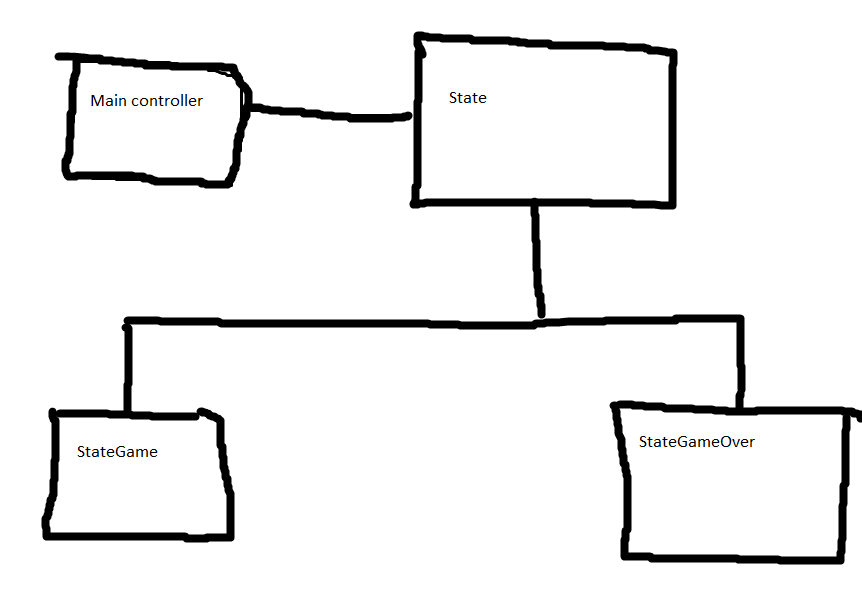
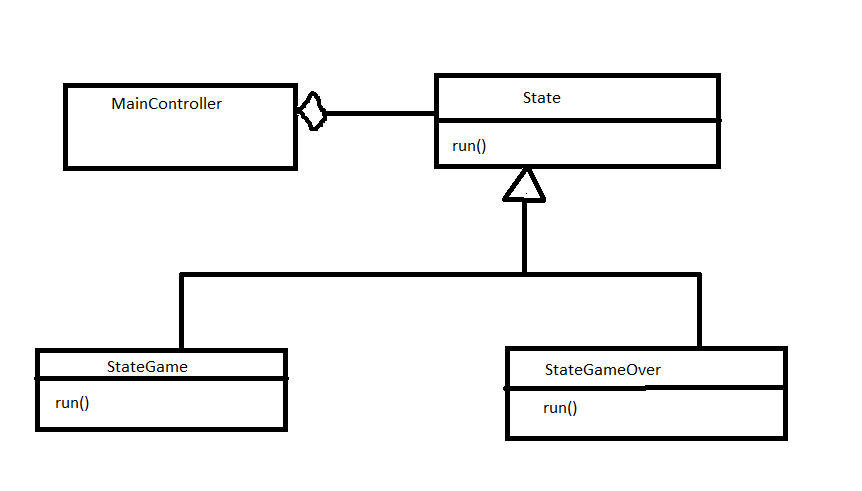
Update Report

Changed region(s): [[0.0302, 0.0305, 1.0, 0.947], [0.6334, 0.8248, 0.6636, 0.8554]]

diff --git a/docs/README.md b/docs/README.md
@@ -13,47 +13,55 @@ O nosso jogo é inspirado no jogo `Gelo Fino` que existia no jogo *Club Penguin*
 # Indíce
 
 1. [Funcionalidades](#funcionalidades)
+1. [Funcionalidades](#funcionalidades)
 2. [Arquitetura do Código](#padrão-arquitetural-do-código)
 3. [Design Patterns](#design-patterns)
-    - [Strategy](#strategy)
+    - [State](#state)
+    - [Command](#state)
 4. [Code Smells e Refactoring](#code-smells-e-refactoring)
 5. [Unit Tests](#unit-tests)
+6. [Outros comentários](#outros-comentarios)
 
 # Funcionalidades
 
 - [ ] Menu Principal
 
-- [x] Os quadrados que o jogador percorre ficam inacessíveis
-  - [x] Os quadrados inacessíveis estão marcados como sendo água
-  - [x] Quando o jogador fica rodeado apenas por água, o mesmo perde
+- [x] Movimento
+  - [x] Sempre que o jogador se movimenta, a sua posição anterior fica inacessível
+  - [x] As posições inacessíveis são transformadas em água
+  - [x] Quando o jogador não se pode movimentor, isto é fica rodeado por peças de água e por paredes, perde o jogo
   - [x] Quanto maior for o número de quadrados que o jogador percorre, maior será a sua pontuação
 
-
-- [x] Existem sacos com moedas espalhados pelo nivel.
-  - [x] Capturar um saco com moedas faz aumentar a pontuação do jogador
+- [x] Existem moedas espalhadas em determinados niveís.
+  - [x] Capturar uma moeda aumenta a pontuação do jogador em dez pontos
   - [ ] Podem existir passagem secretas que levem para zonas com muitos sacos de moedas.
 
-- [x] A partir de um certo nivel começa a aparecer gelo mais resistente, isto é uma zona em que o jogador pode passar por cima duas vezes.
+- [x] A partir de um certo nivel existem certos quadrados onde o jogador pode passar por cima duas vezes.
 
 - [ ] Os quadrados verdes correspondem a uma zona de teletransporte. Quando o jogador passa por cima do mesmo vai ser teletransportado para outro quadrado verde do mesmo nível.
 
 - [ ] Menu de fim de jogo
     - [ ] O jogo acaba assim que o jogador completar todos os niveis. É apresentado a pontuação total.
 
-Com o decorrer do projeto podemos adicionar mais funcionalidades.
+Com o decorrer do projeto poderão ser adicionadas mais funcionalidades
 
 # Padrão Arquitetural do Código
 
 Para a realização deste projeto, decidimos separar e estruturar o nosso código utilizando o MVC. Este modelo foi apresentado durante as aulas e consiste em separar o código em três *packages* diferentes sendo estes:
 
-- Model - Responsável por armazenar a informação do jogo, como a posição dos diversos elementos em cada nível.
-- View - Responsável por toda a interação **Utilizador-Máquina**, ou seja, inicializa o Lanterna e atua como a GUI, sendo responsável pelo desenho e envia as ações do utilizador para o **Controller**.
-- Controller - é responsável pelo mecanismo do jogo.
-Ou seja, o controlador utiliza os dados existentes no **Model** e altera-os garantindo o cumprimento das regras do jogo. Estes dados depois de processados são desenhos no ecrã pelo **View**.
+- O ***Model*** que representa toda a informação presente no jogo
+- O ***View*** que é responsável pela visualização do jogo e por enviar a informação recebida do utilizador, como por exemplo teclas pressionadas no teclado, para o *Controller*.
+- O ***Controller*** que processa a informação recebida pelo *View* e envia comandos *Model* atualizar o seu estado.
+
+![MVC](images/mvc.png)
+
+Este padrão arquitetural permite uma maior modularidade ao código, facilitando a implementação de novas funcionalidades.
+
+> Fonte: [Architectural Patterns](https://web.fe.up.pt/~arestivo/presentation/patterns/#56)
 
 # Design Patterns
 
-### State
+## State
 
 #### Contexto do Problema
 Como o nosso jogo necessita de ter um main menu, um jogo e um menu de final de jogo decidimos implementar o *Design Pattern* State para controlar esta situação.
@@ -62,9 +70,10 @@ Como o nosso jogo necessita de ter um main menu, um jogo e um menu de final de j
 Por este motivo decidimos implementar o *Design Pattern* State para resolver a situação.
 
 #### Implementação
+##### Diagrama UML
+![State](images/StateUML.png)
 
-~ Modelo UML
-
+##### Ficheiros
 [Main Controller](../src/main/java/Controller/MainController.java)
 [State](../src/main/java/Controller/State/State.java)
 [StateGame](../src/main/java/Controller/State/StateGame.java)
@@ -73,77 +82,89 @@ Por este motivo decidimos implementar o *Design Pattern* State para resolver a s
 #### Consequências
 A aplicação deste Design Pattern irá permitir no decorrer do projeto a criação e mais Menus, como por exemplo Menu Inicial, Menu de instruções, entre outros no decorrer do projeto!
 
-// ------------------------------------------------------------------------------
--- TO DO
-### Strategy
+> Fonte: [Design Patterns - State](https://web.fe.up.pt/~arestivo/presentation/patterns/#35)
 
-##### Problema:
+## Command
+#### Problema
+Cada vez que o jogador pressiona uma tecla para mover a sua posição, vão ser verificadas as colisões com todas as paredes, entre outros fatores como por exemplo, se o mesmo passa por cima de uma moeda ou outro tipo de bloco especial. Deste modo, este elevado número de interações entre o jogador e os diversos objetos presentes em cada nível irá causar um Code Smell em que vão existir um elevado número de if's clause
 
-Este Método é também capaz de resolver o problema anterior, porém, de uma maneira diferente. Ou seja, divide os tipos de níveis em várias classes derivadas de um nível, sendo cada uma responsável pela execução do percurso da sua forma
+#### Padrão
+Para resolver este problema, decidimos utilizar o *Design Pattern* Command para 
 
-##### Exemplo:
+A utilização deste padrão permite encapsular as diferentes interações de cada *Element* com o jogador em diferente classes.
 
-Mecanismo chave fechadura: Existência de uma classe **LevelCoin** e outra **LevelKey**. O nosso código seria responsável de chamar um controlador de nivel adequado ao nivel atual. Se Só houvesse coins, chamaríamos o LevelCoin, que não iria verificar as colisões com chave fechadura, gelo branco, etc. Á medida que a complexidade dos níveis iria aumentado, alterávamos o controlador de nivel a utilizar.
+#### Implementação
+Ainda não está implementado. Iremos começar a implementar este *Design Pattern* na branch Command.
 
-### Command
+#### Consequências
+Com a implementação deste Design Pattern no nosso trabalho, a implementação de futuros objetos que interajam com a persongem principal do jogo será mais simples
 
-// ------------------------------------------------------------------------------
+> Fonte: [Design Patterns - Command](https://web.fe.up.pt/~arestivo/presentation/patterns/#20)
 
 # Code Smells e Refactoring
 
-Lista de Possíveis Code Smells a mencionar:
-1. Bloaters
-    1. Long Method (Eu não acho que tenhamos, mas quero o teu feedback e pode ser que o código cresca em algum sítio);
-
-    2. Long Class (Para já acho que não temos nenhuma enorme, mas como disse, o código pode crescer);
-
-2. Object-Orientation Abusers
-    1. Switch Statements (De facto temos alguns :-/ )
-    2. Temporary Field (Temos várias variáveis (Key and lock) que ora estão null, ora têm um determinado valor)
-3. Change Preventers (Não identifiquei grande problema, mas é um Code Smell dificil de se ver, a não ser que queriramos alterar algo)
-4. Dispensables
-5. Couplers
-6. Other Smells
-
 ### Data Class
 
-As classes que se encontram em [odel](../src/main/java/Model) são apenas constituídas por atributos e funções *getter* e *setter*.  
+As classes que se encontram no [*Package Model*](../src/main/java/Model) são apenas constituídas por atributos, funções *Getter* e *Setter*.  
 
-Esta situação é problemática, pois viola o princípio [*Tell Don't Ask*](https://deviq.com/tell-dont-ask/) da [*OOP*](https://www.freecodecamp.org/news/object-oriented-programming-concepts-21bb035f7260/).
+Embora se possa resolver este problema adicionando a *lógica do programa* a *Data Class* utilizando o *Move Method*, estaríamos a violar o modelo **MVC**. Deste modo, podemos afirmar que este code smell é inerente ao estilo arquitetural que estamos a a utilizar no desenvolvimento do nosso projeto, pelo que não temos planos futuros para o corrigir.
 
-O princípio pode ser facilmente explicado por esta citação de [Martin Fowler](https://martinfowler.com/bliki/TellDontAsk.html).
+> Fonte: [Data Class](https://refactoring.guru/smells/data-class), [Move Method](https://refactoring.guru/move-method)
 
-> Tell-Don't-Ask is a principle that helps people remember that object-orientation is about bundling data with the functions that operate on that data. It reminds us that rather than asking an object for data and acting on that data, we should instead tell an object what to do. This encourages to move behavior into an object to go with the data.
+### Dead Code e Speculative Generality
 
-![asdasd](img/MartinFowler.png)
-
-Embora se possa resolver este problema adicionando a *lógica do programa* às data classes (ou seja, usando o [Move Method](https://refactoring.guru/move-method)), estaríamos a violar o modelo **MVC**, que requer um **Model** com **Data Classes**. Deste modo, podemos afirmar que este code smell é inerente ao estilo arquitetural que estamos a usar, pelo que não temos planos futuros para o corrigir.
-
-### Dead Code and Speculative Generality
-
-Na classe [Level Model](../src/main/java/Model/Level/LevelModel.java), existem *setters e getters* que não estamos a utilizar, quer por serem funções que utilizamos anteriormente, quer por serem funções que poderemos utilizar no futuro, pois estamos perante uma entrega intermédia do projeto e ainda há muito código por desenvolver que poderá usufruir da manipulação dos atributos do modelo.  
+Na classe [Level Model](../src/main/java/Model/Level/LevelModel.java), existem *Getters* e *Setters* que não estamos a utilizar, quer por serem funções que utilizamos anteriormente, quer por serem funções que poderemos utilizar no futuro, pois estamos perante uma entrega intermédia do projeto e ainda há muito código por desenvolver que poderá usufruir da manipulação dos atributos do modelo.  
 
 Este code smell é problemático, porque estamos a adicionar linhas de código redundantes cujo único propósito atual é complicar o código.  
 
-Este problema pode ser facilmente resolvido eliminando o [*Dead Code*](https://refactoring.guru/smells/dead-code). Contudo, decidimos não o fazer porque, como mencionado anteriormente, estas linha de código podem ser úteis no futuro ([*Speculative Generality*](https://refactoring.guru/smells/speculative-generality))
+Este problema pode ser facilmente resolvido eliminando-o. Contudo, decidimos não o fazer uma vez que estas linha de código podem vir a ser úteis.
+
+> Fonte : [Dead Code](https://refactoring.guru/smells/dead-code), [*Speculative Generality*](https://refactoring.guru/smells/speculative-generality)
 
 
-### Message Chains, Feature ENvy and Inappropriate Intimacy
+### Message Chains, Switch Statements e Large Class
 
-A classe [Level Controller](../src/main/java/Controller/Level/LevelController.java) incorre no Code Smell [*Message Chains*](https://refactoring.guru/smells/message-chains), havendo linhas de código com acesso a Métodos de um objeto do objeto da classe.
-eg: ![MoveHero](img/MoveHero.png)
+A classe [Level Controller](../src/main/java/Controller/Level/LevelController.java) incorre no *Code Smell Message Chain*. Este ocorre quando existem linhas de código com acesso a métodos de um objeto do objeto da classe.
 
-Este método é problemático, pois dificulta a leitura do código e implica o uso constante de métodos e atributos pertencentes a outras classes ([*Feature Envy*](https://refactoring.guru/smells/feature-envy) and [*Inappropriate Intimacy*](https://refactoring.guru/smells/inappropriate-intimacy))
+Por exemplo: 
+```java
+public void moveHero(Position position) {
+    if (!checkCollisions(position)) {
+        if(!levelModel.removeWhite(levelModel.getHero().getPosition()))
+            levelModel.getFilled().add(new Water(levelModel.getHero().getPosition()));
+        levelModel.getHero().setPosition(position);
 
-Uma maneira de resolver estes Code Smells([*Couplers*](https://refactoring.guru/refactoring/smells/couplers)), seria o uso de:
+        if (levelModel.removeCoin(position)) levelModel.addPoints(10);
+        else levelModel.addPoints(1);
 
-1. [*Move Method*](https://refactoring.guru/move-method), ou seja, o Método a ser utilizado deve ser transportado para a classe onde é de facto chamado eg: Em vez de LevelModel ser responsável por manipular os Elementos, o próprio LevelController poderia fazê-lo.
+        if(levelModel.getKey() != null && levelModel.getKey().getPosition().equals(position)){
+            levelModel.setKey(null);
+            levelModel.setLock(null);
+        }
+    }
+}
+```
 
-2. [*Extract Method*](https://refactoring.guru/extract-method) para criar novos métodos que executem a manipulação dos atributos do objeto em causa, melhorando a legibilade do código eg: em vez de `getHero.getPosition()`, `getHeroPosition()`. Esta solução teria uma contrapartida, podendo gerar uma classe com demasiados métodos, o que seria um Code Smell em si;
+Este método é problemático, uma vez que dificulta a leitura do código. 
 
-3. [*Move Field*](https://refactoring.guru/move-field), ou seja, movimentar o atributo em causa para a classe que realmente o usa, evitando a necessidade do uso de *getters* e *setters*. Porém, esta solução iria causar novos problemas, dado que iria alterar as *Data Classes* inerentes ao uso do *MVC*, alterando a arquiterura do nosso programa, podendo até originar uma classe com demasiados atributos, originando um novo *Code Smell*
+Além disso, o grande número de if statements existentes no código é em si um *Code Smell* e que neste caso pode ser resolvido utilizando o *Design Pattern Command* como já foi referido acima. 
 
-4. [*Extract Class*](https://refactoring.guru/extract-class) É também possível criar uma nova classe responsável por executar parte do código da classe atual, ou seja, criar vários controladores que façam a gestão de diferentes partes do LevelModel. Combinando este *Refactor* com os anteriores, será possível eliminar problemas de *Coupling* sem originar novos *Code Sells* associados a excesso de dados.
+- **Extract Method** - Criar novos métodos que executem a manipulação dos atributos do objeto em causa, melhorando a legibilade do código. Neste caso em vez de `getHero().getPosition()` podiamos utilizar `getHeroPosition()`. No entanto esta solução pode originar um outro *Code Smell* denominado como *Large Class*.
 
+- **Extract Class** - Criar uma nova classe responsável por executar parte do código da classe atual, ou seja, criar vários controladores que façam a gestão de diferentes partes do LevelModel. Combinando este *Refactor* com o anterior, será possível eliminar *Code Smells* associados a Large Class.
+
+> Fonte: [Message Chains](https://refactoring.guru/smells/message-chains), [*Couplers*](https://refactoring.guru/refactoring/smells/couplers), [*Extract Method*](https://refactoring.guru/extract-method), [*Extract Class*](https://refactoring.guru/extract-class)
 
 # Unit Tests
+
+Atualmente os nossos teste cobrem cerca de 72% do código total. É possível observar a percentagem de testes em cada classe de cada um dos packages principais na seguinte imagem.
+
+![MoveHero](images/testCoverage.png)
+
+Foi utilizado o package *Mockito* para testar corretamente o código criando os *stubs* adequados.
+
+# Outros Comentários
+
+....
+
+
